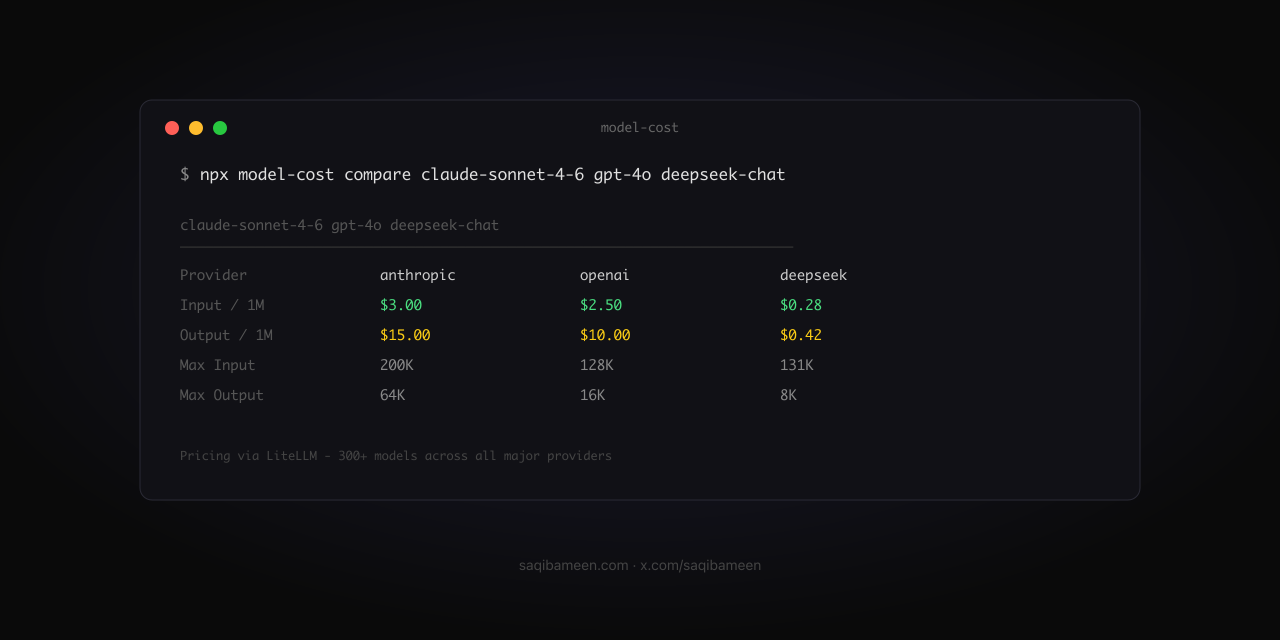
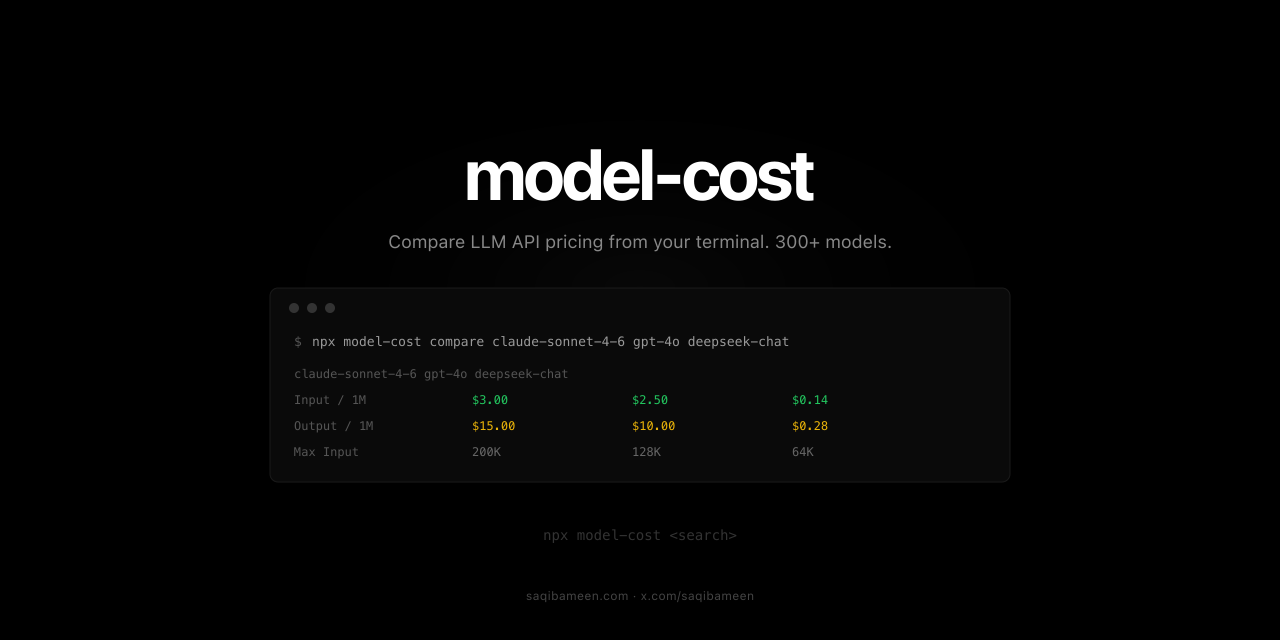
Cleanup: remove redundant fetches, optimize fuzzy search, redesign cover
- Reuse already-loaded models instead of re-fetching in error paths
- Reuse searchModels() inside findModel() instead of duplicating logic
- Pre-compute query bigrams once for fuzzy matching instead of per-model
- Redesign cover image to match can-i-publish style (bold name on top)
- Fix duplicate test name in filterByProvider

diff --git a/src/models.ts b/src/models.ts
@@ -90,6 +90,24 @@ function similarity({ a, b }: { a: string; b: string }): number {
   return (2 * intersection) / (biA.size + biB.size);
 }
 
+function similarityWithBigrams({
+  biA,
+  b,
+}: {
+  biA: Set<string>;
+  b: string;
+}): number {
+  const biB = bigrams({ str: b.toLowerCase() });
+  if (biA.size === 0 && biB.size === 0) return 1;
+  if (biA.size === 0 || biB.size === 0) return 0;
+
+  let intersection = 0;
+  for (const bi of biA) {
+    if (biB.has(bi)) intersection++;
+  }
+  return (2 * intersection) / (biA.size + biB.size);
+}
+
 function findModel({
   models,
   query,
@@ -103,8 +121,8 @@ function findModel({
   const exact = models.find((m) => m.name.toLowerCase() === q);
   if (exact) return { model: exact, suggestions: [] };
 
-  // 2. Substring matches
-  const substring = models.filter((m) => m.name.toLowerCase().includes(q));
+  // 2. Substring matches (reuse searchModels)
+  const substring = searchModels({ models, query });
   if (substring.length === 1) return { model: substring[0], suggestions: [] };
   if (substring.length > 1 && substring.length <= 10) {
     return { model: null, suggestions: substring };
@@ -114,8 +132,12 @@ function findModel({
   }
 
   // 3. Fuzzy suggestions via bigram similarity
+  const queryBigrams = bigrams({ str: q });
   const scored = models
-    .map((m) => ({ model: m, score: similarity({ a: q, b: m.name }) }))
+    .map((m) => ({
+      model: m,
+      score: similarityWithBigrams({ biA: queryBigrams, b: m.name }),
+    }))
     .filter((s) => s.score > 0.1)
     .sort((a, b) => b.score - a.score)
     .slice(0, 5);

diff --git a/src/cli.ts b/src/cli.ts
@@ -108,12 +108,12 @@ program
   }) => {
     showBanner({ opts });
 
-    let { models, updatedAt } = await fetchModels({ opts, forceUpdate: opts.update });
+    const { models: allModels, updatedAt } = await fetchModels({ opts, forceUpdate: opts.update });
+    let models = allModels;
 
     if (opts.provider) {
       models = filterByProvider({ models, provider: opts.provider });
       if (models.length === 0) {
-        const { models: allModels } = await fetchModels({ opts });
         const providers = getProviders({ models: allModels });
         console.log(`  ${pc.red('✖')} No models found for provider ${pc.bold(`"${opts.provider}"`)}.`);
         console.log('');
@@ -131,7 +131,6 @@ program
     if (search) {
       models = searchModels({ models, query: search });
       if (models.length === 0) {
-        const { models: allModels } = await fetchModels({ opts });
         const resolved = findModel({ models: allModels, query: search });
         console.log(formatSuggestions({ query: search, suggestions: resolved.suggestions }));
         process.exit(1);

diff --git a/tests/models.test.ts b/tests/models.test.ts
@@ -130,7 +130,7 @@ describe('filterByProvider', () => {
     expect(filtered).toHaveLength(1);
   });
 
-  it('filters by exact provider name', () => {
+  it('filters by exact provider name for deepseek', () => {
     const filtered = filterByProvider({ models, provider: 'deepseek' });
     expect(filtered).toHaveLength(1);
     expect(filtered[0].name).toBe('deepseek-chat');
